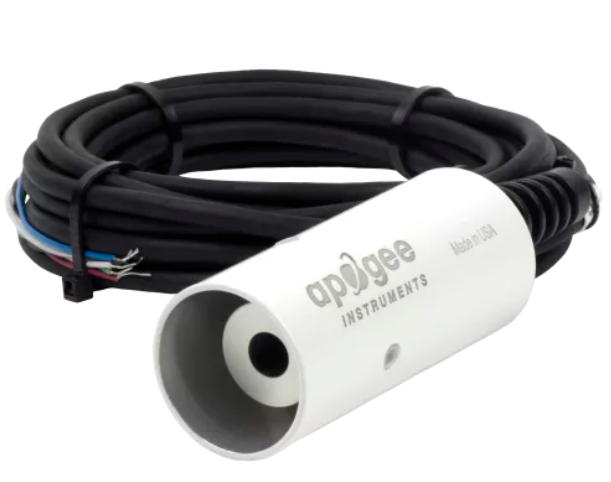
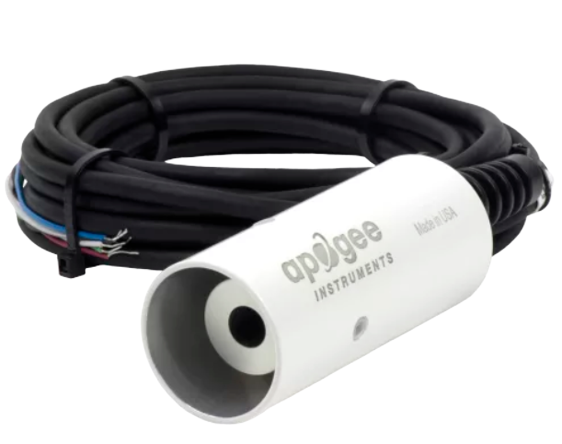
Sensors ListView

diff --git a/lib/pages/home_page/home_page.dart b/lib/pages/home_page/home_page.dart
@@ -79,7 +79,7 @@ class _HomePageState extends State<HomePage> {
                     icon: clockIcon),
                 Expanded(
                   child: ListView.builder(
-                    padding: const EdgeInsets.all(0),
+                    padding: const EdgeInsets.only(top: 10, bottom: 20),
                       physics: const BouncingScrollPhysics(),
                       itemCount: sensors.length, //info.channels!.length,
                       itemBuilder: (context, index) {
@@ -103,7 +103,7 @@ class _HomePageState extends State<HomePage> {
           sensorType.sensorName = 'PMB25';
           sensorType.imageSensor = sensorsImagesList[0];
           sensorType.variableName.add('Precipación acumulada');
-          sensorType.variableValue.add(info.channels![0].valor!);
+          sensorType.variableValue.add('${info.channels![0].valor!} mm');
           break;
         case '1':
           sensorType.variableName.add('Intensidad precipitación');
@@ -120,7 +120,7 @@ class _HomePageState extends State<HomePage> {
           break;
         case '3':
           sensorType = SensorType();
-          sensorType.sensorName = 'Windsonic 2D';
+          sensorType.sensorName = 'Windsonic\n2D';
           sensorType.imageSensor = sensorsImagesList[2];
           sensorType.variableName.add('Dirección del viento');
           sensorType.variableValue.add(info.channels![3].valor!);
@@ -205,21 +205,21 @@ class _HomePageState extends State<HomePage> {
           break;
         case '17':
           sensorType = SensorType();
-          sensorType.sensorName = 'CS655';
+          sensorType.sensorName = 'CS655\nSup.';
           sensorType.imageSensor = sensorsImagesList[9];
-          sensorType.variableName.add('Permitividad (Sup.)');
+          sensorType.variableName.add('Permitividad: ');
           sensorType.variableValue.add(info.channels![17].valor!);
           break;
         case '18':
-          sensorType.variableName.add('Cont. volumétrico (Sup.)');
+          sensorType.variableName.add('Cont. volumétrico: ');
           sensorType.variableValue.add(info.channels![18].valor!);
           break;
         case '19':
-          sensorType.variableName.add('Conductividad (Sup.) (CS655)');
+          sensorType.variableName.add('Conductividad: ');
           sensorType.variableValue.add(info.channels![19].valor!);
           break;
         case '20':
-          sensorType.variableName.add('Temp. suelo (Sup.) (CS655)');
+          sensorType.variableName.add('Temp. suelo: ');
           sensorType.variableValue.add(info.channels![20].valor!);
           sensors.add(sensorType);
           break;
@@ -227,11 +227,11 @@ class _HomePageState extends State<HomePage> {
           sensorType = SensorType();
           sensorType.sensorName = 'SNR-NIR';
           sensorType.imageSensor = sensorsImagesList[10];
-          sensorType.variableName.add('Incidente NIR (SNR)');
+          sensorType.variableName.add('Incidente NIR (SNR): ');
           sensorType.variableValue.add(info.channels![21].valor!);
           break;
         case '22':
-          sensorType.variableName.add('Incidente RED (SNR)');
+          sensorType.variableName.add('Incidente RED (SNR): ');
           sensorType.variableValue.add(info.channels![22].valor!);
           sensors.add(sensorType);
           break;
@@ -239,11 +239,11 @@ class _HomePageState extends State<HomePage> {
           sensorType = SensorType();
           sensorType.sensorName = 'SNR-NIR';
           sensorType.imageSensor = sensorsImagesList[10];
-          sensorType.variableName.add('Incidente NIR (SNR)');
+          sensorType.variableName.add('Incidente NIR (SNR): ');
           sensorType.variableValue.add(info.channels![23].valor!);
           break;
         case '24':
-          sensorType.variableName.add('Incidente RED (SNR)');
+          sensorType.variableName.add('Incidente RED (SNR): ');
           sensorType.variableValue.add(info.channels![24].valor!);
           sensors.add(sensorType);
           break;
@@ -251,7 +251,7 @@ class _HomePageState extends State<HomePage> {
           sensorType = SensorType();
           sensorType.sensorName = 'HFP01';
           sensorType.imageSensor = sensorsImagesList[11];
-          sensorType.variableName.add('Flujo de calor suelo');
+          sensorType.variableName.add('Flujo de calor suelo: ');
           sensorType.variableValue.add(info.channels![25].valor!);
           sensors.add(sensorType);
           break;
@@ -259,31 +259,31 @@ class _HomePageState extends State<HomePage> {
           sensorType = SensorType();
           sensorType.sensorName = 'SI-111';
           sensorType.imageSensor = sensorsImagesList[12];
-          sensorType.variableName.add('Temp. de superficie');
+          sensorType.variableName.add('Temp. de superficie: ');
           sensorType.variableValue.add(info.channels![26].valor!);
           break;
         case '27':
-          sensorType.variableName.add('Temp. del cuerpo');
+          sensorType.variableName.add('Temp. del cuerpo: ');
           sensorType.variableValue.add(info.channels![27].valor!);
           sensors.add(sensorType);
           break;
         case '28':
           sensorType = SensorType();
-          sensorType.sensorName = 'CS655';
+          sensorType.sensorName = 'CS655\nInf.';
           sensorType.imageSensor = sensorsImagesList[9];
-          sensorType.variableName.add('Permitividad (Inf.)');
+          sensorType.variableName.add('Permitividad: ');
           sensorType.variableValue.add(info.channels![28].valor!);
           break;
         case '29':
-          sensorType.variableName.add('Cont. volumetrico (Inf.)');
+          sensorType.variableName.add('Cont. volumetrico: ');
           sensorType.variableValue.add(info.channels![29].valor!);
           break;
         case '30':
-          sensorType.variableName.add('Conductividad  (Inf.)');
+          sensorType.variableName.add('Conductividad: ');
           sensorType.variableValue.add(info.channels![30].valor!);
           break;
         case '31':
-          sensorType.variableName.add('Temp. suelo (Inf.)');
+          sensorType.variableName.add('Temp. suelo: ');
           sensorType.variableValue.add(info.channels![31].valor!);
           sensors.add(sensorType);
           break;
@@ -291,11 +291,11 @@ class _HomePageState extends State<HomePage> {
           sensorType = SensorType();
           sensorType.sensorName = '034B';
           sensorType.imageSensor = sensorsImagesList[13];
-          sensorType.variableName.add('Dirección del viento');
+          sensorType.variableName.add('Dirección del viento: ');
           sensorType.variableValue.add(info.channels![32].valor!);
           break;
         case '33':
-          sensorType.variableName.add('Velocidad del viento');
+          sensorType.variableName.add('Velocidad del viento: ');
           sensorType.variableValue.add(info.channels![33].valor!);
           sensors.add(sensorType);
           break;
@@ -303,11 +303,11 @@ class _HomePageState extends State<HomePage> {
           sensorType = SensorType();
           sensorType.sensorName = 'CSIM11';
           sensorType.imageSensor = sensorsImagesList[14];
-          sensorType.variableName.add('ORP');
+          sensorType.variableName.add('ORP: ');
           sensorType.variableValue.add(info.channels![34].valor!);
           break;
         case '35':
-          sensorType.variableName.add('PH');
+          sensorType.variableName.add('PH: ');
           sensorType.variableValue.add(info.channels![35].valor!);
           sensors.add(sensorType);
           break;
@@ -330,7 +330,7 @@ class SensorCard extends StatelessWidget {
       alignment: Alignment.centerLeft,
       children: [
         Container(
-          margin: const EdgeInsets.only(top: 10, bottom: 10),
+          margin: const EdgeInsets.only(top: 10, bottom: 20, left: 97),
           //padding: EdgeInsets.only(top: 10, bottom: 10),
           height: height * 0.9,
           decoration: BoxDecoration(
@@ -339,30 +339,33 @@ class SensorCard extends StatelessWidget {
               width: height * (0.4 - 0.38),
             ),
             borderRadius: const BorderRadius.only(
-                topLeft: Radius.circular(40),
+                topLeft: Radius.circular(0),
                 bottomLeft: Radius.circular(40),
-                topRight: Radius.circular(20),
-                bottomRight: Radius.circular(20)),
+                topRight: Radius.circular(40),
+                bottomRight: Radius.circular(0)),
             color: Colors.white,
           ),
         ),
         Positioned(
-            left: 20,
+            left: 0,
+            top: 10,
             child: Image.asset(info.imageSensor,
                 height: height * 0.7, width: width, fit: BoxFit.contain)),
         Positioned(
-            left: 120,
-            top: 20,
+            left: 0,
+            bottom: 30,
             child: Text(
               info.sensorName,
+              textAlign: TextAlign.center,
+
               style: const TextStyle(
-                  color: Colors.black,
+                  color: Colors.white,
                   fontWeight: FontWeight.bold,
-                  fontSize: 18),
+                  fontSize: 24),
             )),
         Positioned(
             left: 120,
-            top: 20 + 30,
+            top: 0,
             right: 0,
             bottom: 0,
             child: ListView.builder(
@@ -372,6 +375,7 @@ class SensorCard extends StatelessWidget {
                 return Text(
                   '${info.variableName[index]}: ${info.variableValue[index]}',
                   style: const TextStyle(
+
                       color: Colors.black,
                       fontWeight: FontWeight.bold,
                       fontSize: 14),

diff --git a/lib/constants.dart b/lib/constants.dart
@@ -2,20 +2,20 @@ const urlBase = '192.168.4.1';
 const kFontSize = 19.0;
 
 List<String> sensorsImagesList = [
-  'lib/assets/images/sensors/pmb25.png',        //0
-  'lib/assets/images/sensors/te525mm.jpg',      //1
-  'lib/assets/images/sensors/wsonic.jpg',       //2
-  'lib/assets/images/sensors/cs215housing.jpg', //3
-  'lib/assets/images/sensors/cs100.jpg',        //4
-  'lib/assets/images/sensors/cs450.jpg',        //5
-  'lib/assets/images/sensors/sr50at.png',       //6
-  'lib/assets/images/sensors/cnr4.jpg',         //7
-  'lib/assets/images/sensors/cm11.jpg',        //8
-  'lib/assets/images/sensors/cs650.jpg',        //9
-  'lib/assets/images/sensors/snr.jpg',          //10
-  'lib/assets/images/sensors/hfp01.png',        //11
-  'lib/assets/images/sensors/si111.png',        //12
-  'lib/assets/images/sensors/034B.jpg',         //13
+  'lib/assets/images/sensors/pmb25.png',        //0 *
+  'lib/assets/images/sensors/te525mm.png',      //1 *
+  'lib/assets/images/sensors/wsonic.png',       //2 *
+  'lib/assets/images/sensors/cs215housing.png', //3 *
+  'lib/assets/images/sensors/cs100.png',        //4 *
+  'lib/assets/images/sensors/cs450.png',        //5 *
+  'lib/assets/images/sensors/sr50at.png',       //6 *
+  'lib/assets/images/sensors/cnr4.png',         //7 *
+  'lib/assets/images/sensors/cm11.png',        //8 *
+  'lib/assets/images/sensors/cs650.png',        //9 *
+  'lib/assets/images/sensors/snr.png',          //10 *
+  'lib/assets/images/sensors/hfp01.png',        //11 *
+  'lib/assets/images/sensors/si111.png',        //12 *
+  'lib/assets/images/sensors/034B.png',         //13 *
   'lib/assets/images/sensors/CSIM11.png',       //14
 ];
 
